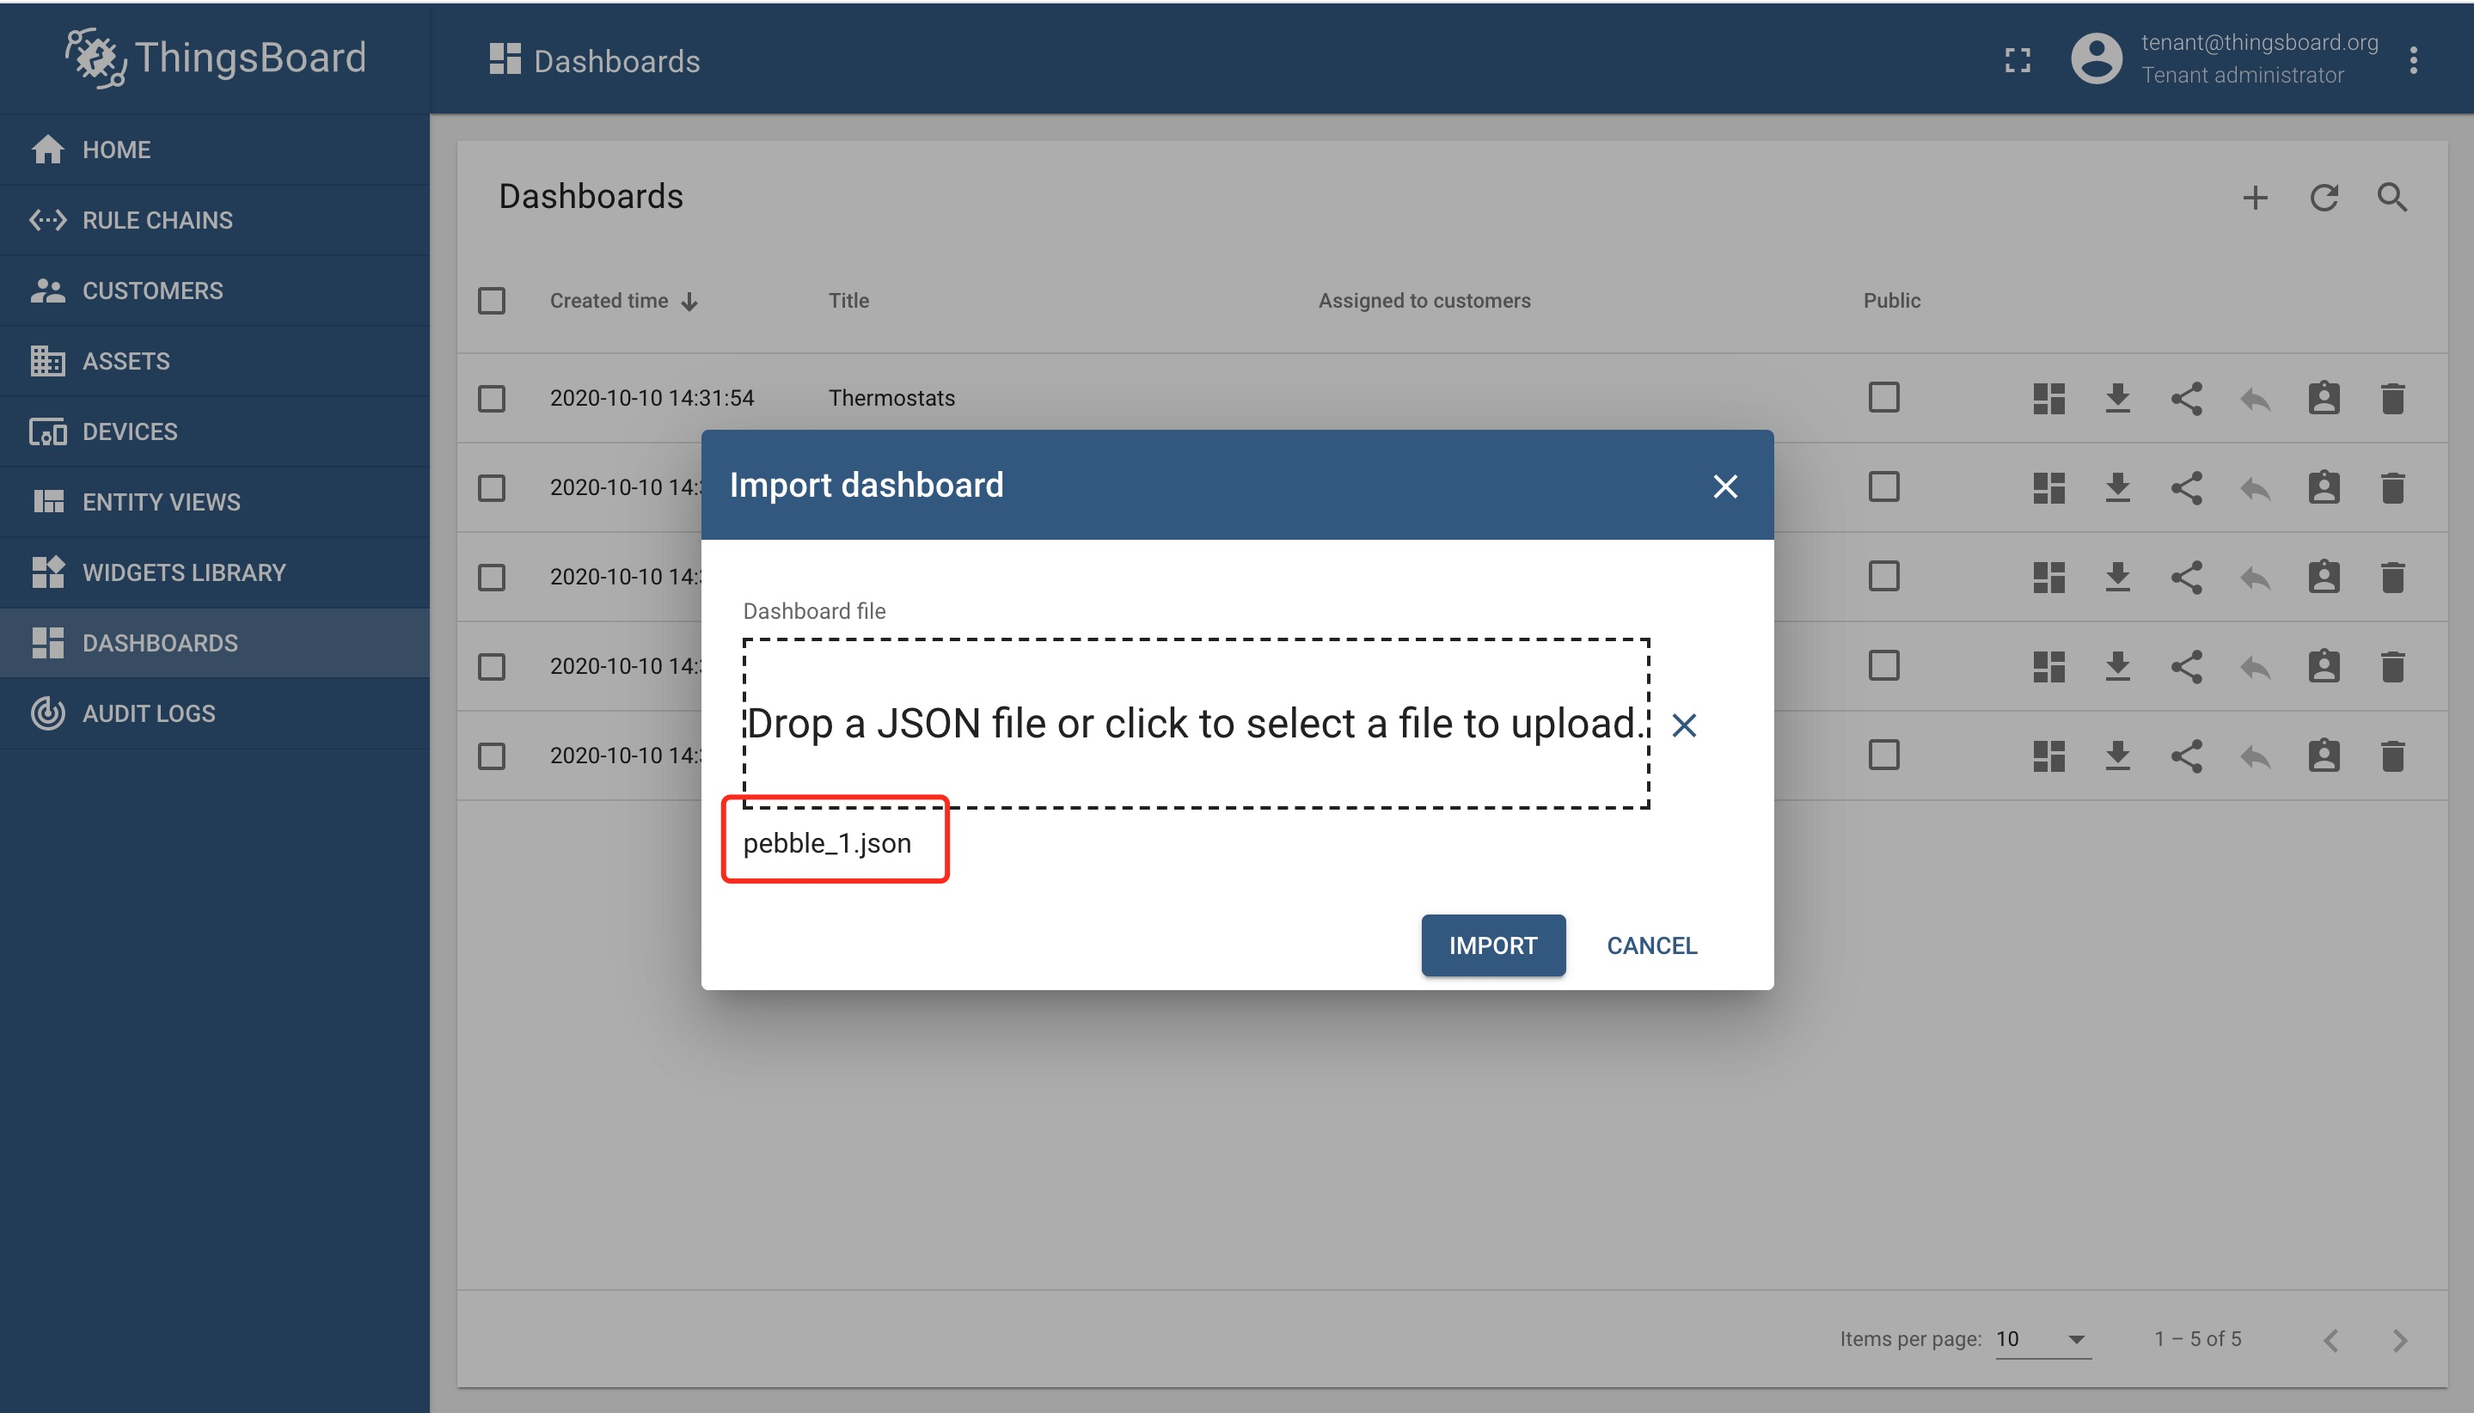
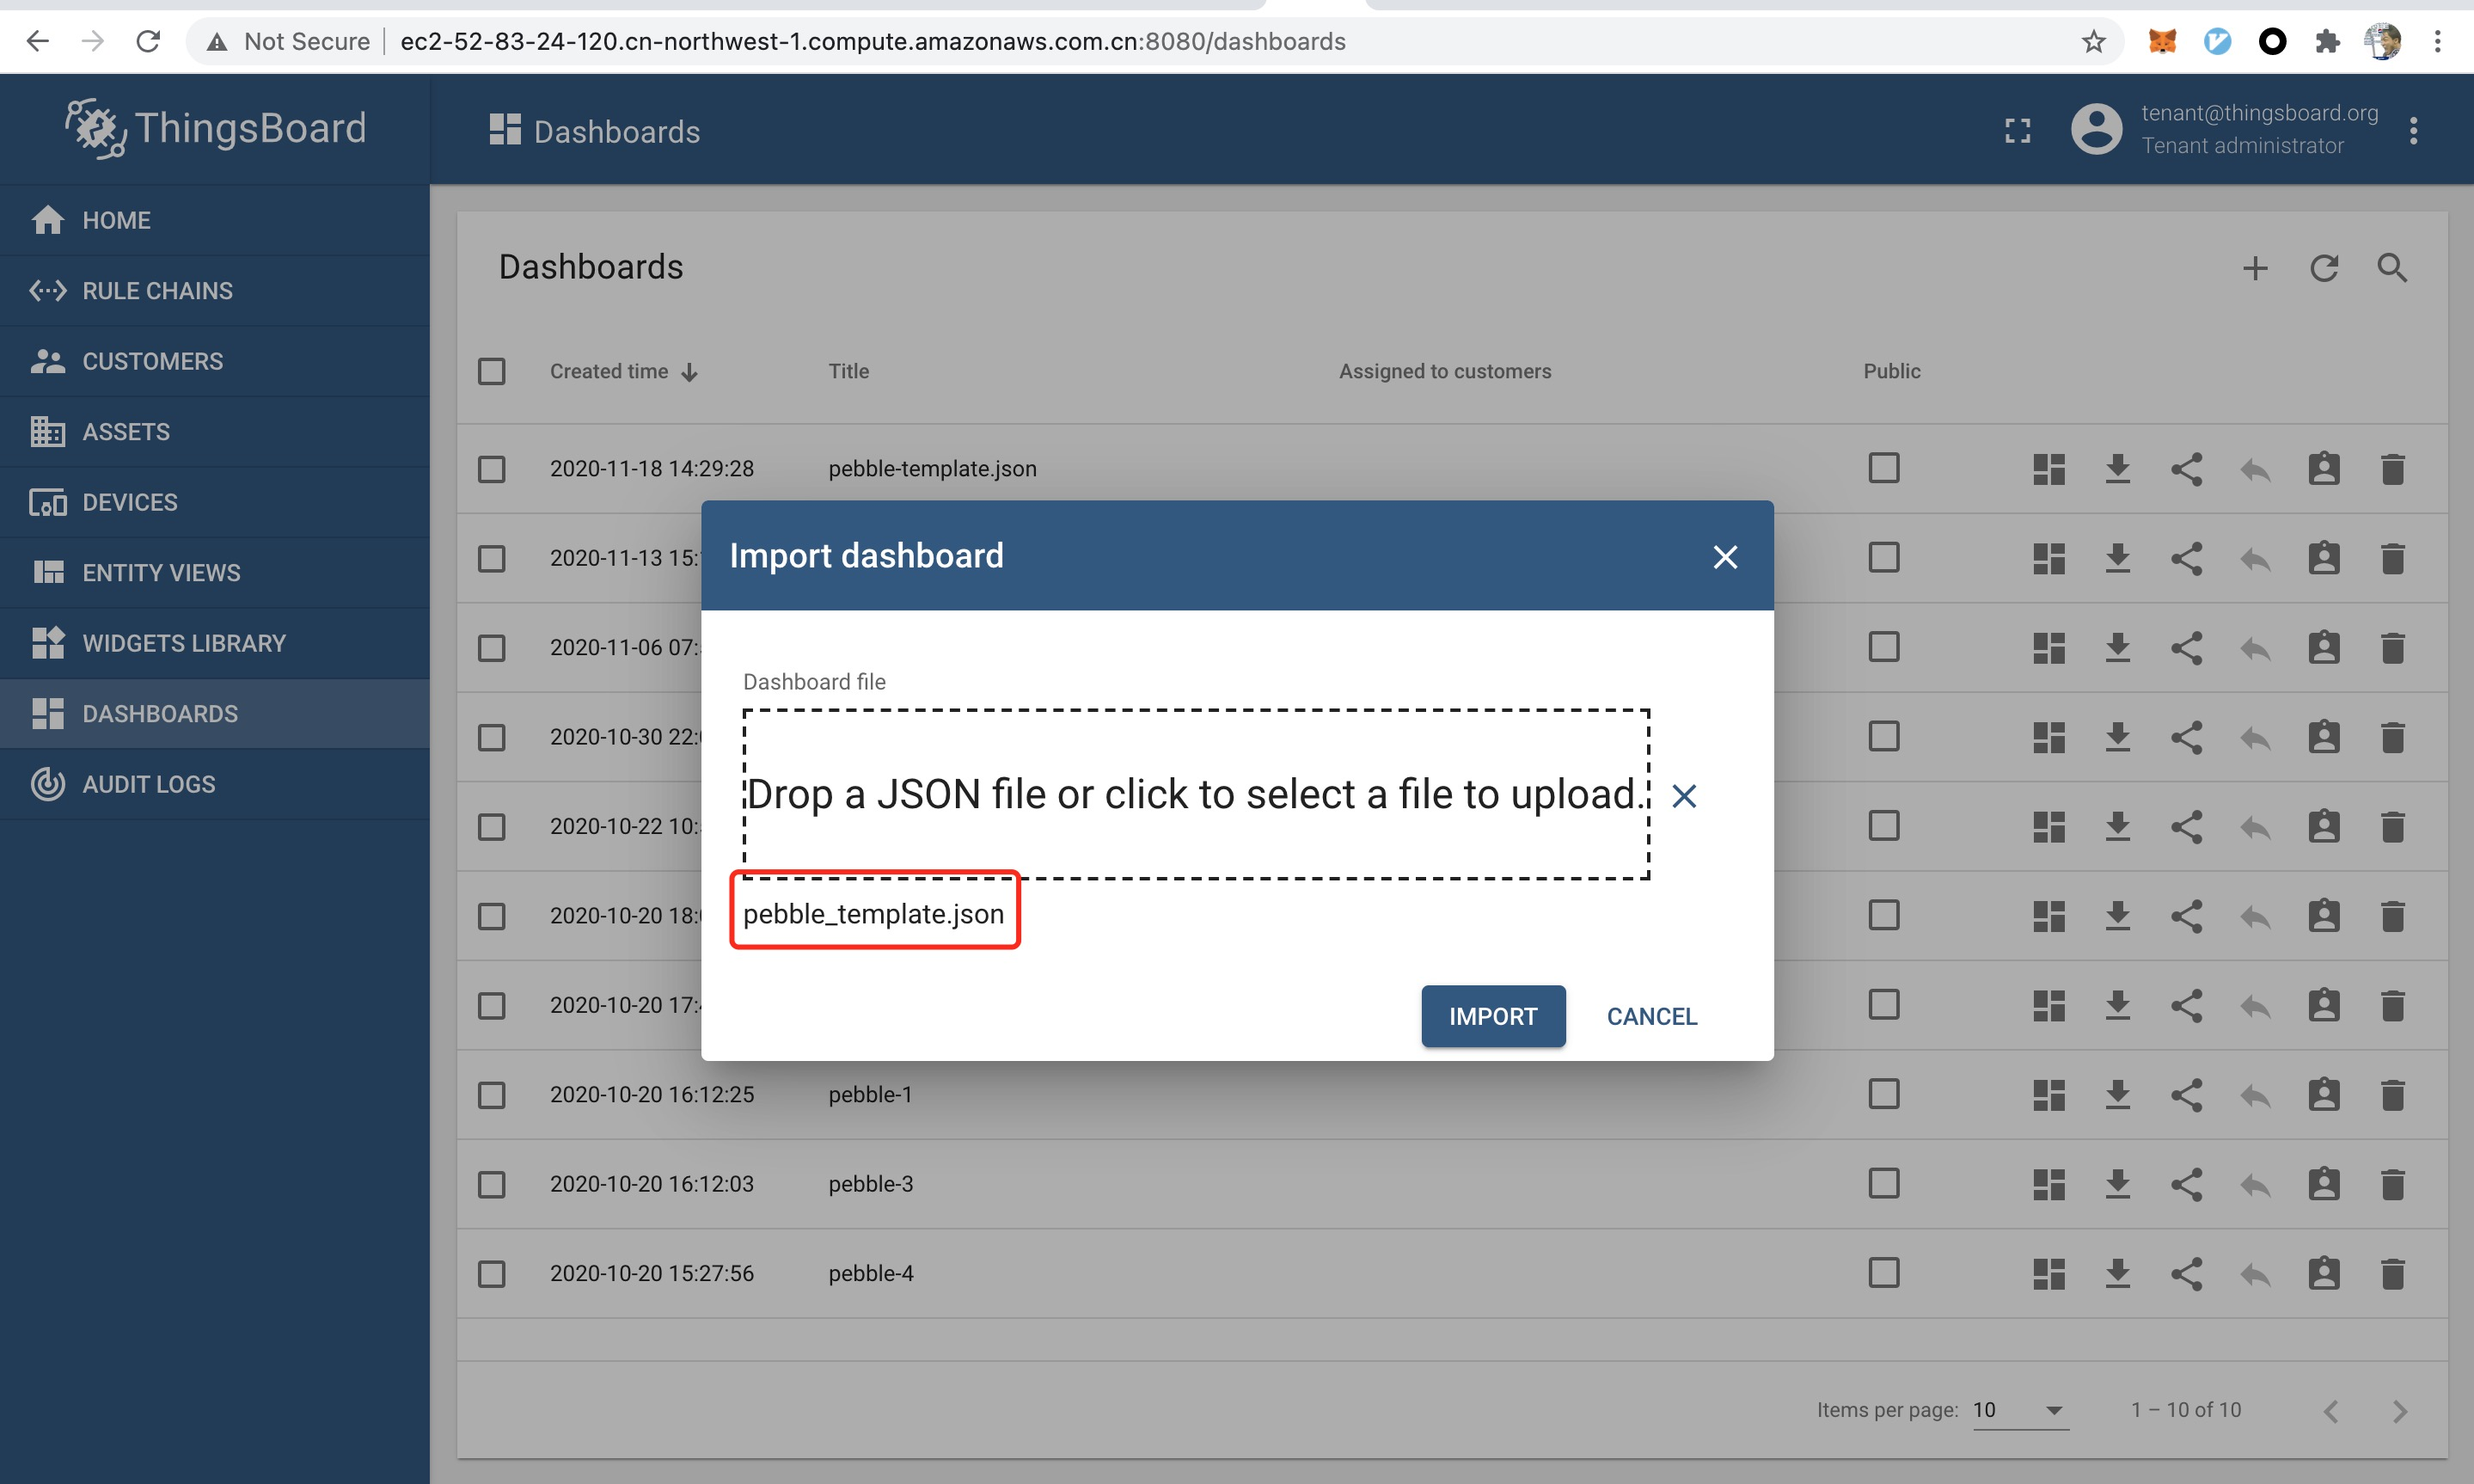
modified:   README.md 	modified:   images/import-dashboard-2.jpg

diff --git a/README.md b/README.md
@@ -112,7 +112,7 @@ This script continously produce data points according to pebble spec and inject 
 ### 2. Import Predefined Dashboard
 ![](images/import-dashboard-1.jpg)
 
-drop example/dashboard/pebble_1.json to the box
+drop example/dashboard/pebble_template.json to the box
 
 ![](images/import-dashboard-2.jpg)
 
